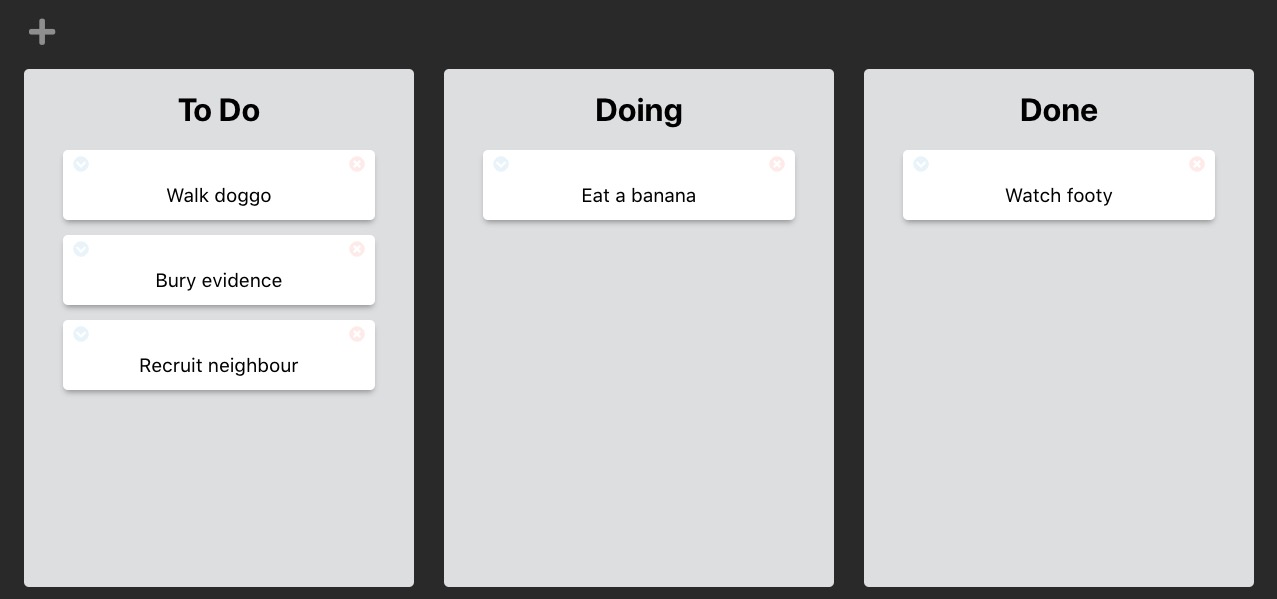
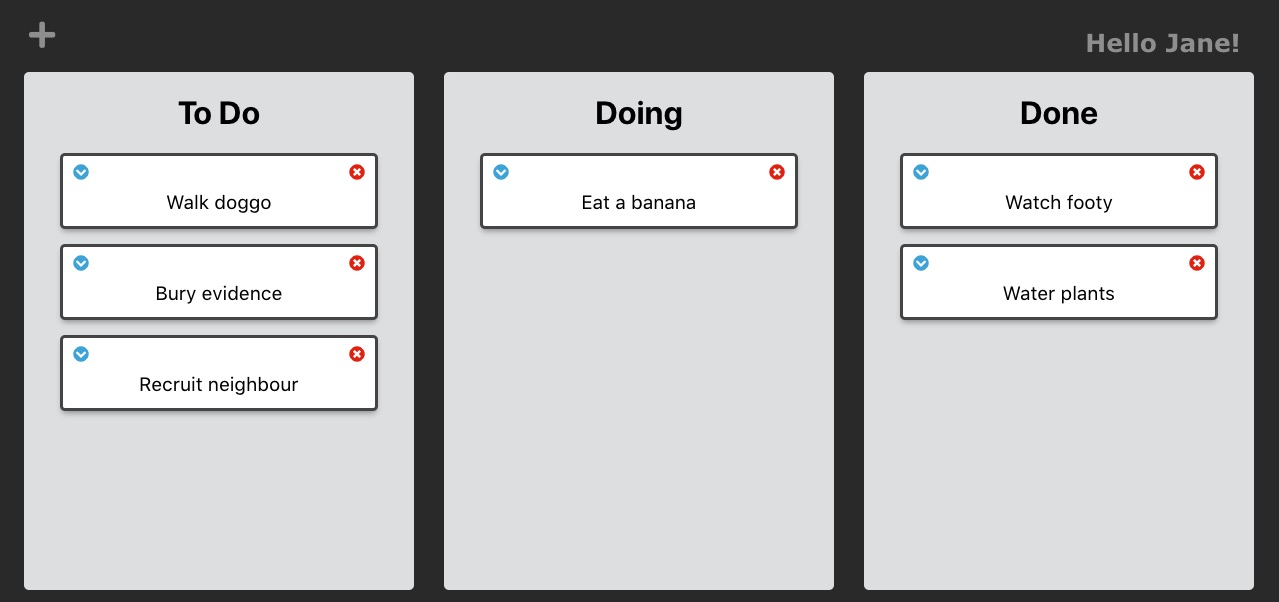
new look

diff --git a/index.js b/index.js
@@ -34,7 +34,7 @@ app.use('/api', router)
 if (process.env.NODE_ENV === 'production') {
   app.use(express.static(path.join(__dirname, 'client/build')))
   app.get('*', (req, res) => {
-    res.sendfile(path.join(__dirname, 'client/build/index.html'))
+    res.sendFile(path.join(__dirname, 'client/build/index.html'))
   })
 }
 

diff --git a/client/src/TasksDashboard.js b/client/src/TasksDashboard.js
@@ -9,7 +9,7 @@ const TasksDashboard = ({ children, onAdd, onDragEnd }) =>
 			<span className="addButton">
 				<i className="fas fa-plus" onClick={onAdd} />
 			</span>
-			<a href="/auth/google">Sign up</a>
+			<a href="/auth/google">Hello Jane!</a>
 			{children}
 		</div>
 	</DragDropContext>

diff --git a/client/src/TasksDashboard.css b/client/src/TasksDashboard.css
@@ -32,7 +32,7 @@
   height: 85vh;
   margin: 15px;
   border-radius: 5px;
-  overflow: scroll;
+  overflow: hidden;
 }
 
 #dashboard > div > div > div {
